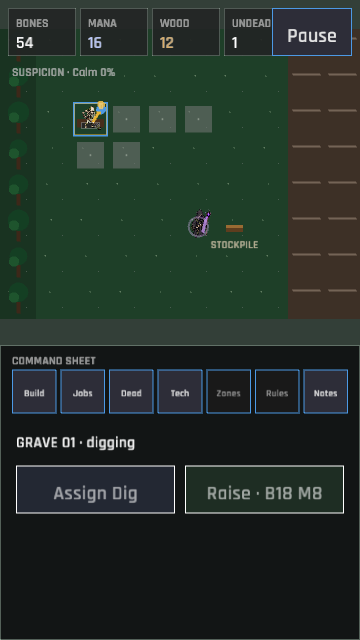
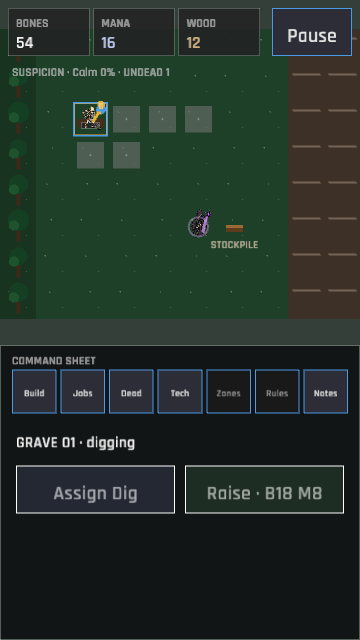
The undead count steps out of the way of the pause bell (narrow resource strip)
Very narrow compact screens now show three uncrowded resource cards and keep the undead population in the suspicion line. Wider compact screens retain the four-card status bar.

Changed region(s): [[0.3361, 0.0, 0.7639, 0.125], [0.1833, 0.0, 0.3667, 0.0938]]

diff --git a/src/ui/responsive.rs b/src/ui/responsive.rs
@@ -62,13 +62,10 @@ fn draw_compact_status(ctx: &UiContext<'_>, pointer: Pointer, actions: &mut Vec<
             ctx.session.economy.wood,
             Color::new(0.86, 0.68, 0.40, 1.0),
         ),
-        (
-            "UNDEAD",
-            ctx.session.active_undead() as i32,
-            dark::TEXT_BRIGHT,
-        ),
     ];
-    let card_width = ((width - 104.0) / 4.0).max(72.0);
+    let show_undead_card = width >= 400.0;
+    let card_count = if show_undead_card { 4.0 } else { 3.0 };
+    let card_width = ((width - 104.0) / card_count).max(72.0);
     for (index, (label, value, color)) in values.into_iter().enumerate() {
         let rect = Rect::new(8.0 + index as f32 * card_width, 8.0, card_width - 4.0, 48.0);
         draw_surface(
@@ -97,6 +94,34 @@ fn draw_compact_status(ctx: &UiContext<'_>, pointer: Pointer, actions: &mut Vec<
             color,
         );
     }
+    if show_undead_card {
+        let rect = Rect::new(8.0 + 3.0 * card_width, 8.0, card_width - 4.0, 48.0);
+        draw_surface(
+            rect,
+            &SurfaceStyle::new(Color::new(0.055, 0.07, 0.065, 0.92))
+                .with_border(1.0, Color::new(0.42, 0.54, 0.46, 0.60)),
+        );
+        draw_text_block(
+            "UNDEAD",
+            rect.x + 8.0,
+            rect.y + 7.0,
+            rect.w - 16.0,
+            14.0,
+            9.0,
+            0.0,
+            dark::TEXT_DIM,
+        );
+        draw_text_block(
+            &ctx.session.active_undead().to_string(),
+            rect.x + 8.0,
+            rect.y + 23.0,
+            rect.w - 16.0,
+            20.0,
+            17.0,
+            0.0,
+            dark::TEXT_BRIGHT,
+        );
+    }
     if virtual_button(
         pause,
         if ctx.session.phase == GamePhase::Paused {
@@ -110,12 +135,22 @@ fn draw_compact_status(ctx: &UiContext<'_>, pointer: Pointer, actions: &mut Vec<
     ) {
         actions.push(UiAction::TogglePause);
     }
-    draw_text_block(
-        &format!(
+    let suspicion = if show_undead_card {
+        format!(
             "SUSPICION · {} {:.0}%",
             super::components::stage_label(ctx.session.pressure.stage),
             ctx.session.pressure.suspicion
-        ),
+        )
+    } else {
+        format!(
+            "SUSPICION · {} {:.0}% · UNDEAD {}",
+            super::components::stage_label(ctx.session.pressure.stage),
+            ctx.session.pressure.suspicion,
+            ctx.session.active_undead()
+        )
+    };
+    draw_text_block(
+        &suspicion,
         12.0,
         64.0,
         width - 24.0,
